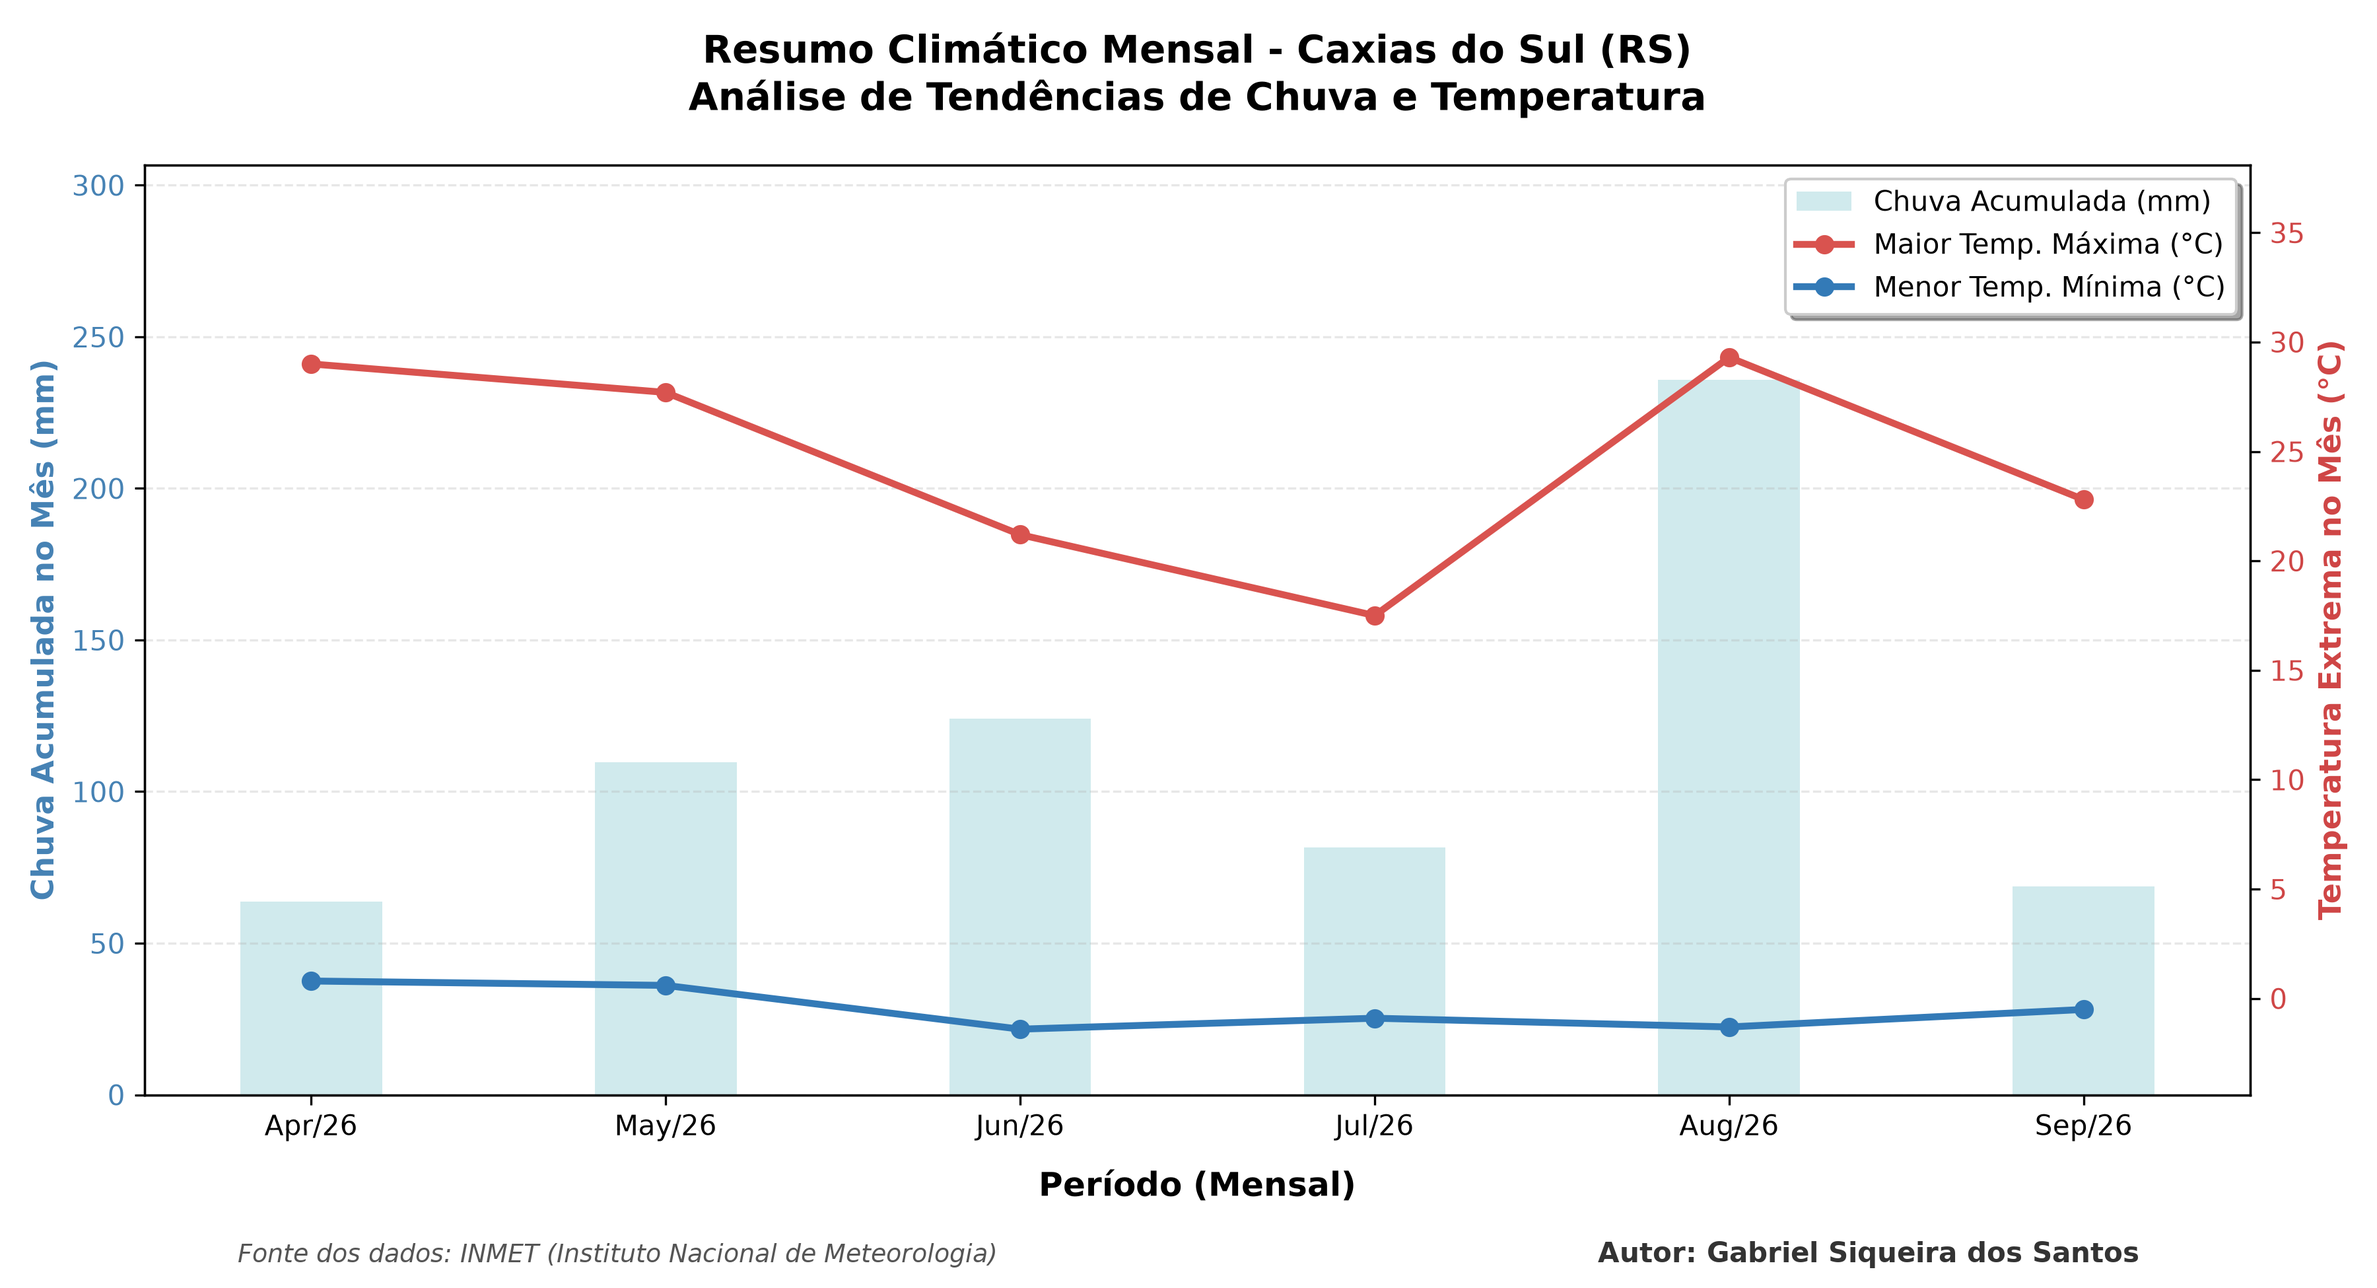
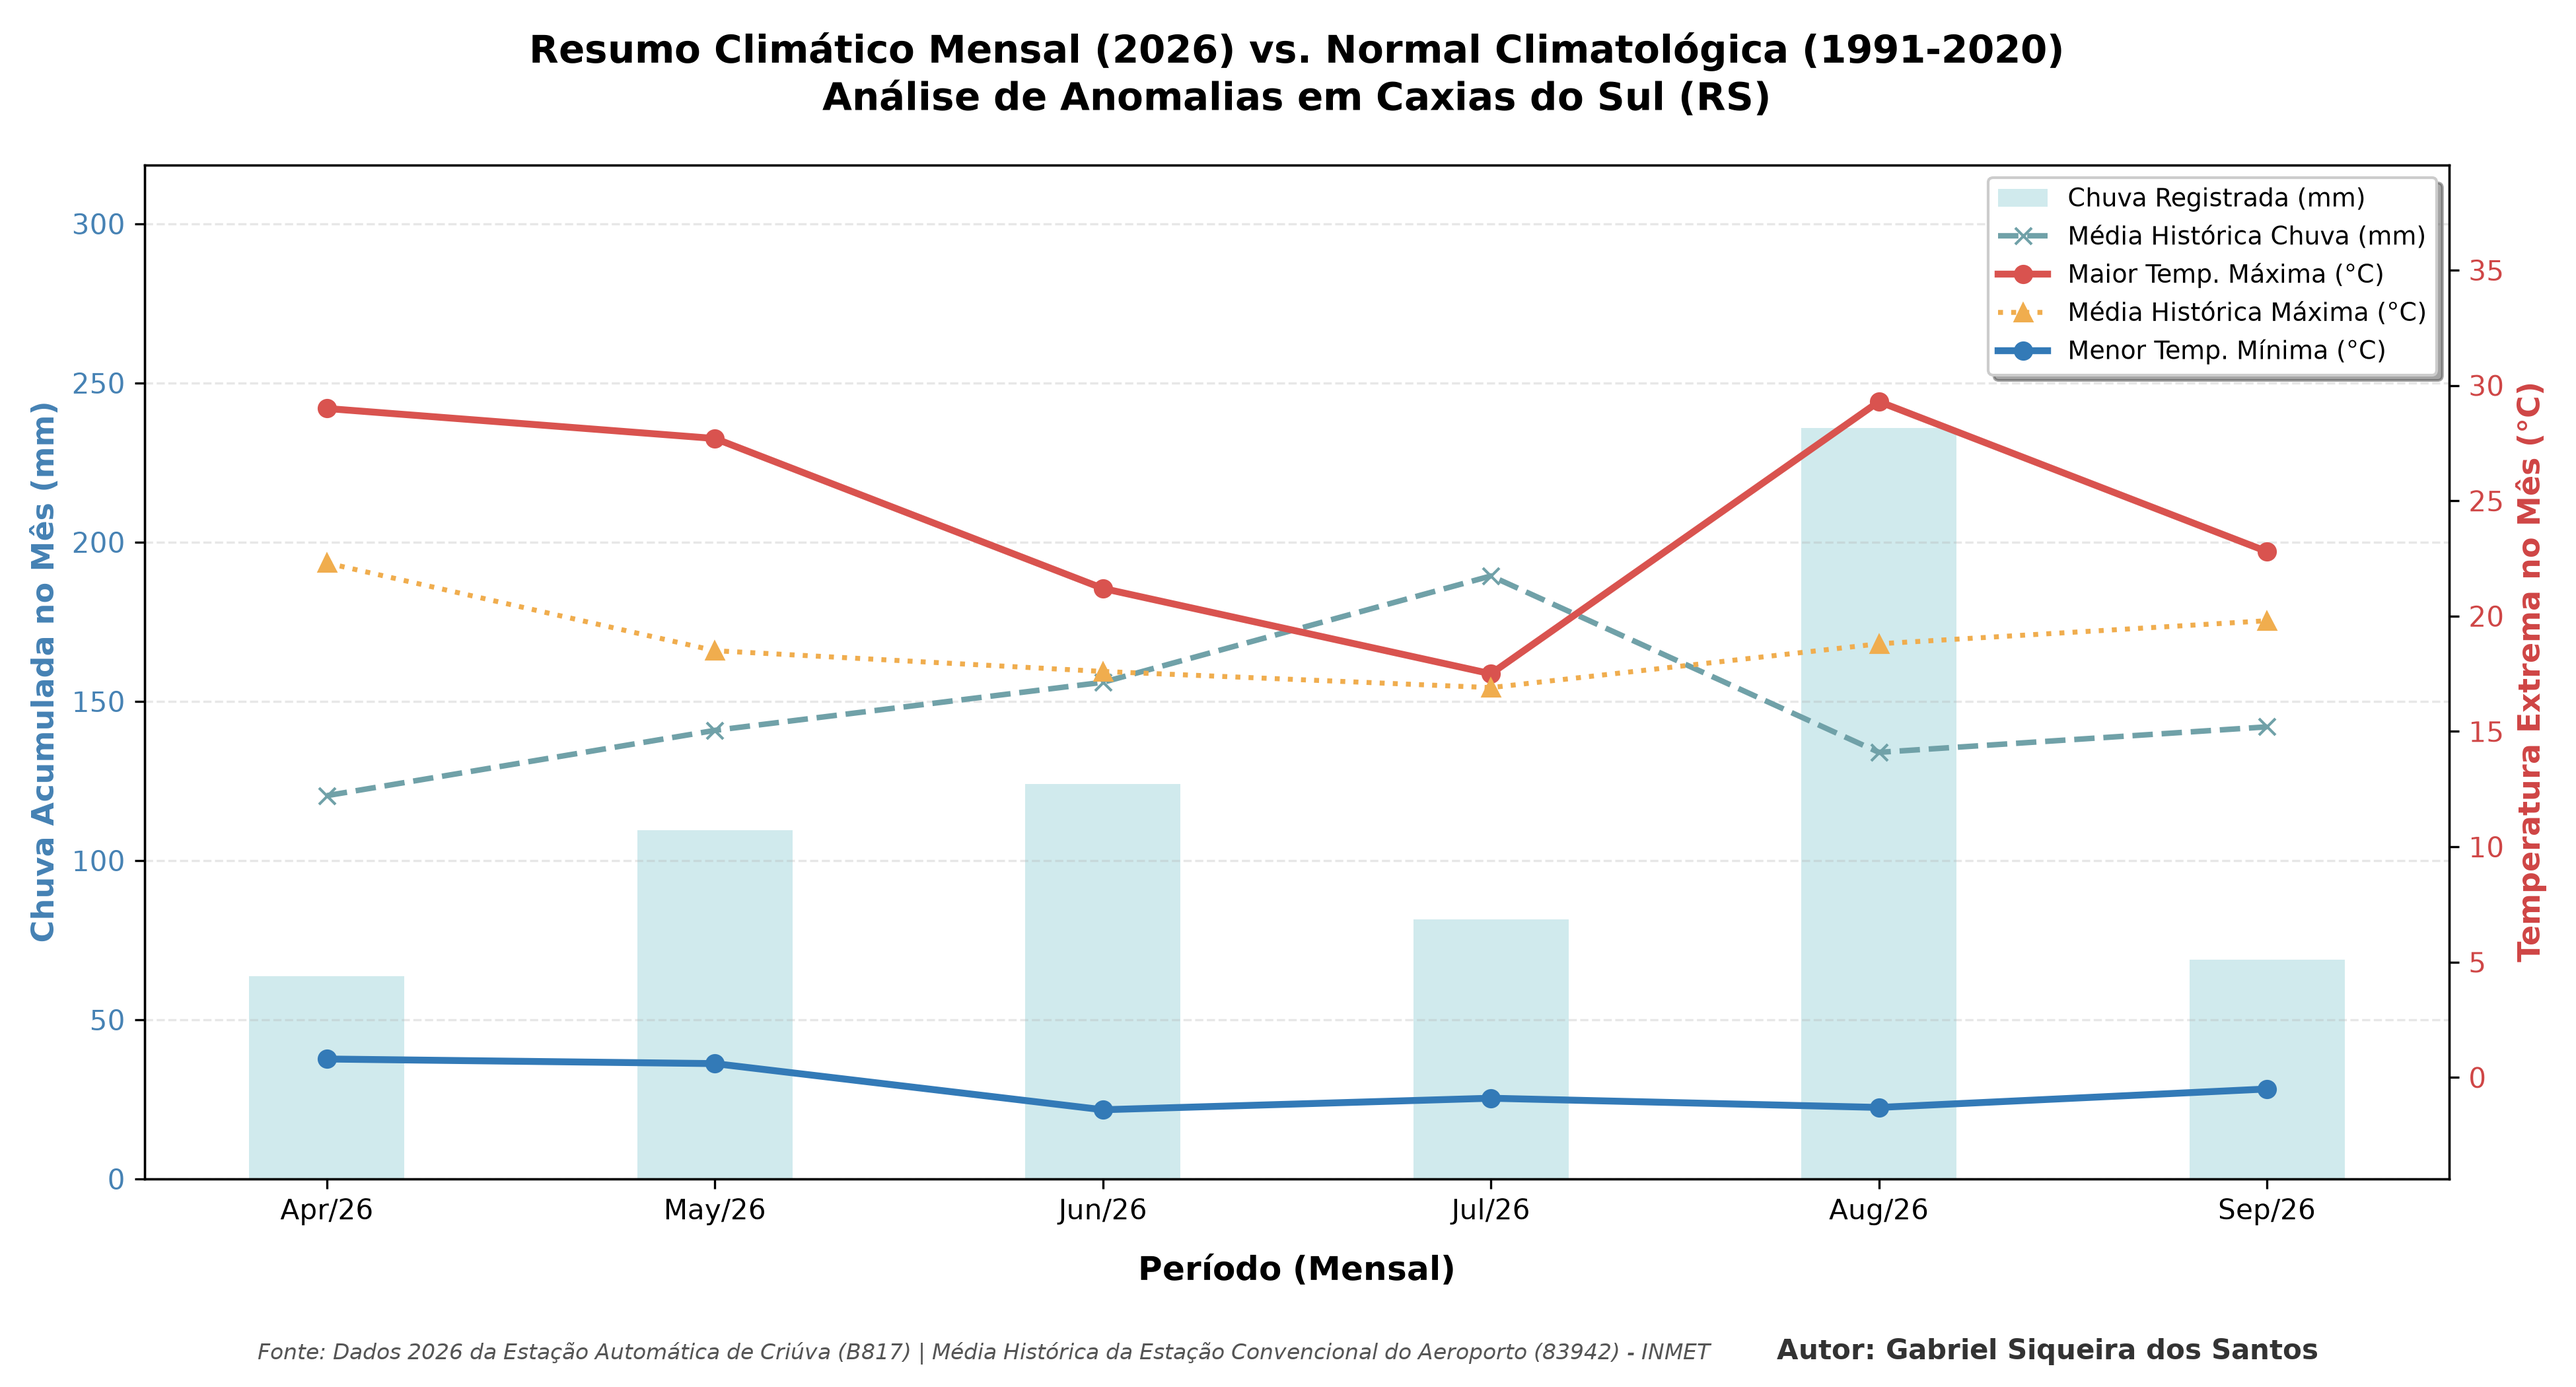
chore: deletado script antigo e consolidada versao final com medias historicas

diff --git a/script/codigo_grafico_historico.py b/script/codigo_grafico_historico.py
@@ -1,0 +1,149 @@
+### Projeto para visualização em gráfico do acumulado de chuvas X temperaturas de Caxias do Sul, comparando
+### com a "Normal climatológica", padrão estipulado internacionalmente pela Organização Meteorológica Mundial/OMM (três décadas de dados climáticos)
+### Média das três décadas retiradas do site do INMET: https://portal.inmet.gov.br/servicos/normais-climatológicas
+
+### Os dados climáticos recentes (2026) utilizados neste projeto foram coletados pela estação meteorológica automática de **Criúva (B817)**. Para fins de análise comparativa, esses dados foram 
+### cruzados com a **Normal Climatológica (1991-2020)** da estação convencional do **Aeroporto de Caxias do Sul (83942)**, visto que é a única série histórica centenária disponível no 
+### município. Pequenas divergências milimétricas ou térmicas observadas nos gráficos são esperadas devido 
+### às diferenças geográficas e de microclima entre o distrito rural e a zona urbana
+
+# Dados públicos da Estação Meteorológica de Caxias do Sul - Criúva, retirados do site do INMET: https://portal.inmet.gov.br/servicos/bdmep-dados-históricos
+# Desenvolvido por GABRIEL SIQUEIRA DOS SANTOS
+
+
+import pandas as pd
+import matplotlib.pyplot as plt
+import numpy as np
+
+# 1. Configurações do arquivo
+nome_arquivo = r'C:\Users\gasiq\Documents\DocumentosProjetos-Programacao-github\Chuvas_temperatura_CXS\cleaned\tabela.csv'
+
+skip_rows = 0
+with open(nome_arquivo, 'r', encoding='latin-1') as f:
+    for i, linha in enumerate(f):
+        if 'Data' in linha:
+            skip_rows = i
+            break
+
+# 2. Carregar o arquivo CSV 
+df = pd.read_csv(nome_arquivo, sep=';', skiprows=skip_rows, encoding='latin-1')
+df.columns = df.columns.str.strip()
+
+# 3. Extração dos nomes das colunas
+col_data = df.columns[df.columns.str.contains('Data', case=False)][0]
+col_max = df.columns[df.columns.str.contains('Temp.*Max', case=False)][0]
+col_min = df.columns[df.columns.str.contains('Temp.*Min', case=False)][0]
+col_chuva = df.columns[df.columns.str.contains('Chuva', case=False)][0]
+
+# 4. Tratar datas e forçar conversão numérica
+df[col_data] = pd.to_datetime(df[col_data], errors='coerce', dayfirst=True)
+
+for col in [col_max, col_min, col_chuva]:
+    df[col] = df[col].astype(str).str.replace(',', '.')
+    df[col] = df[col].replace(['-9999', '-9999.0', 'nan', 'NaN', 'None'], np.nan)
+    df[col] = pd.to_numeric(df[col], errors='coerce')
+
+# Remover linhas inválidas e filtrar até a data atual para evitar o "futuro vazio"
+df = df.dropna(subset=[col_data])
+data_hoje = pd.to_datetime('today')
+df = df[df[col_data] <= data_hoje]
+
+# 5. Agrupamento Mensal
+df['Ano_Mes'] = df[col_data].dt.to_period('M')
+df['Numero_Mes'] = df[col_data].dt.month  # Extrai o número do mês (1 a 12)
+
+df_mensal = df.groupby(['Ano_Mes', 'Numero_Mes']).agg({
+    col_max: 'max',     
+    col_min: 'min',     
+    col_chuva: 'sum'    
+}).reset_index()
+
+df_mensal = df_mensal.sort_values('Ano_Mes')
+df_mensal['Mes_Ano_Texto'] = df_mensal['Ano_Mes'].dt.strftime('%b/%y')
+
+# =========================================================================
+# MAPEAMENTO DA NORMAL CLIMATOLÓGICA HISTÓRICA (INMET 1991-2020)
+# =========================================================================
+medias_historicas = {
+    1: {'Chuva_Med': 158.5, 'Temp_Max_Med': 27.2},  # Jan
+    2: {'Chuva_Med': 154.9, 'Temp_Max_Med': 26.8},  # Fev
+    3: {'Chuva_Med': 111.3, 'Temp_Max_Med': 25.4},  # Mar
+    4: {'Chuva_Med': 120.4, 'Temp_Max_Med': 22.3},  # Abr
+    5: {'Chuva_Med': 140.9, 'Temp_Max_Med': 18.5},  # Mai
+    6: {'Chuva_Med': 156.0, 'Temp_Max_Med': 17.6},  # Jun
+    7: {'Chuva_Med': 189.4, 'Temp_Max_Med': 16.9},  # Jul
+    8: {'Chuva_Med': 134.0, 'Temp_Max_Med': 18.8},  # Ago
+    9: {'Chuva_Med': 142.0, 'Temp_Max_Med': 19.8},  # Set
+    10: {'Chuva_Med': 167.0, 'Temp_Max_Med': 22.2}, # Out
+    11: {'Chuva_Med': 184.0, 'Temp_Max_Med': 24.6}, # Nov
+    12: {'Chuva_Med': 200.0, 'Temp_Max_Med': 26.3}  # Dez
+}
+
+# Criando colunas de médias históricas com base no mês do dado
+df_mensal['Chuva_Historica'] = df_mensal['Numero_Mes'].map(lambda x: medias_historicas[x]['Chuva_Med'])
+df_mensal['Temp_Max_Historica'] = df_mensal['Numero_Mes'].map(lambda x: medias_historicas[x]['Temp_Max_Med'])
+
+# 6. Configurar as posições no eixo X
+indices = np.arange(len(df_mensal))  
+largura_barra_chuva = 0.4  
+
+# Criar a estrutura do gráfico com eixo duplo
+fig, ax1 = plt.subplots(figsize=(13, 7)) 
+
+# --- EIXO Y 1: Chuva (Barras e Linha de Média) ---
+color_chuva = '#bce2e6'  
+ax1.set_xlabel('Período (Mensal)', fontsize=12, fontweight='bold', labelpad=10)
+ax1.set_ylabel('Chuva Acumulada no Mês (mm)', color='#4682B4', fontsize=11, fontweight='bold')
+
+barras_chuva = ax1.bar(indices, df_mensal[col_chuva], 
+                       width=largura_barra_chuva, color=color_chuva, alpha=0.7, label='Chuva Registrada (mm)')
+
+# Linha de tendência/média da chuva histórica
+linha_chuva_hist = ax1.plot(indices, df_mensal['Chuva_Historica'], color='#70a1a8', linewidth=2, 
+                            linestyle='--', marker='x', label='Média Histórica Chuva (mm)')
+
+ax1.tick_params(axis='y', labelcolor='#4682B4')
+ax1.grid(True, axis='y', linestyle='--', alpha=0.3)
+ax1.set_ylim(0, max(df_mensal[col_chuva].max(), df_mensal['Chuva_Historica'].max()) * 1.35)
+
+# --- EIXO Y 2: Temperaturas (Linhas e Linha de Média) ---
+ax2 = ax1.twinx()  
+ax2.set_ylabel('Temperatura Extrema no Mês (°C)', color='#cf4646', fontsize=11, fontweight='bold')
+
+linha_max = ax2.plot(indices, df_mensal[col_max], color='#d9534f', linewidth=2.5, 
+                     marker='o', markersize=6, label='Maior Temp. Máxima (°C)')
+
+# NOVO: Linha de tendência/média da temperatura máxima histórica
+linha_temp_hist = ax2.plot(indices, df_mensal['Temp_Max_Historica'], color='#f0ad4e', linewidth=1.8, 
+                             linestyle=':', marker='^', label='Média Histórica Máxima (°C)')
+
+linha_min = ax2.plot(indices, df_mensal[col_min], color='#337ab7', linewidth=2.5, 
+                     marker='o', markersize=6, label='Menor Temp. Mínima (°C)')
+
+ax2.tick_params(axis='y', labelcolor='#cf4646')
+ax2.set_ylim(df_mensal[col_min].min() - 3, max(df_mensal[col_max].max(), df_mensal['Temp_Max_Historica'].max()) * 1.35)
+
+# 7. Formatação do Eixo X
+plt.xticks(indices, df_mensal['Mes_Ano_Texto'], fontweight='bold')
+
+# 8. Legenda Única Atualizada
+elementos_graficos = [barras_chuva] + linha_chuva_hist + linha_max + linha_temp_hist + linha_min
+labels = [e.get_label() for e in elementos_graficos]
+ax1.legend(elementos_graficos, labels, loc='upper right', frameon=True, facecolor='white', edgecolor='#ccc', shadow=True, fontsize=9)
+
+# 9. Título e Créditos
+plt.title('Resumo Climático Mensal (2026) vs. Normal Climatológica (1991-2020)\nAnálise de Anomalias em Caxias do Sul (RS)', fontsize=14, fontweight='bold', pad=20)
+
+texto_fonte = 'Fonte: Dados 2026 da Estação Automática de Criúva (B817) | Média Histórica da Estação Convencional do Aeroporto (83942) - INMET'
+fig.text(0.1, 0.02, texto_fonte, fontsize=8, style='italic', color='#555')
+fig.text(0.9, 0.02, 'Autor: Gabriel Siqueira dos Santos', fontsize=10, fontweight='bold', color='#333', ha='right')
+
+plt.tight_layout()
+plt.subplots_adjust(bottom=0.15) 
+
+# Salvar 
+plt.savefig('grafico_clima.png', dpi=300)
+
+
+# 10. Exibir o gráfico
+plt.show()
